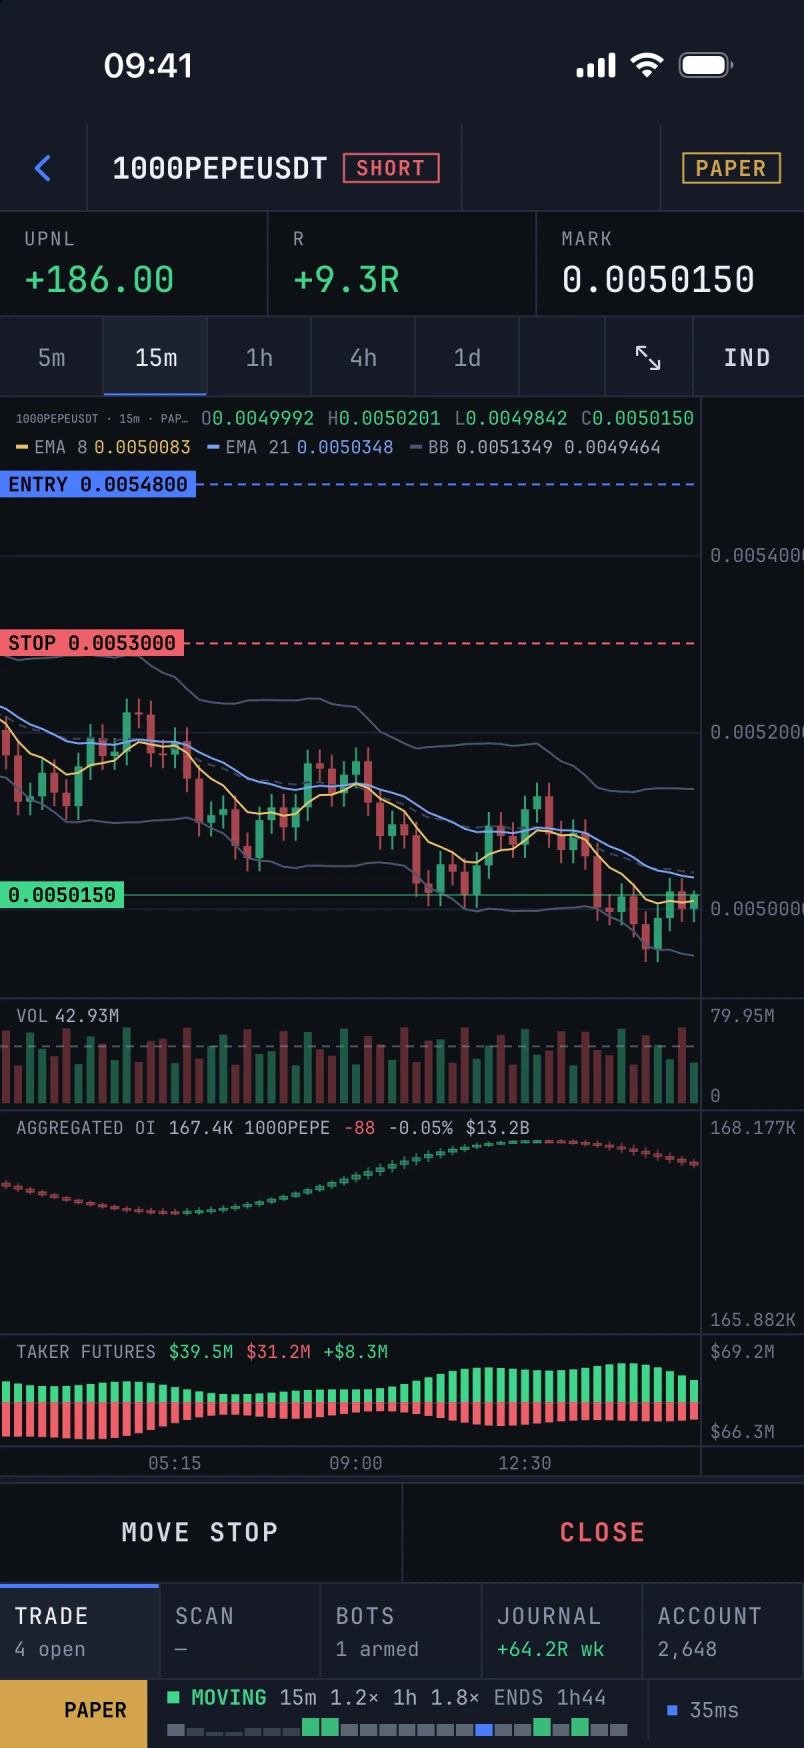
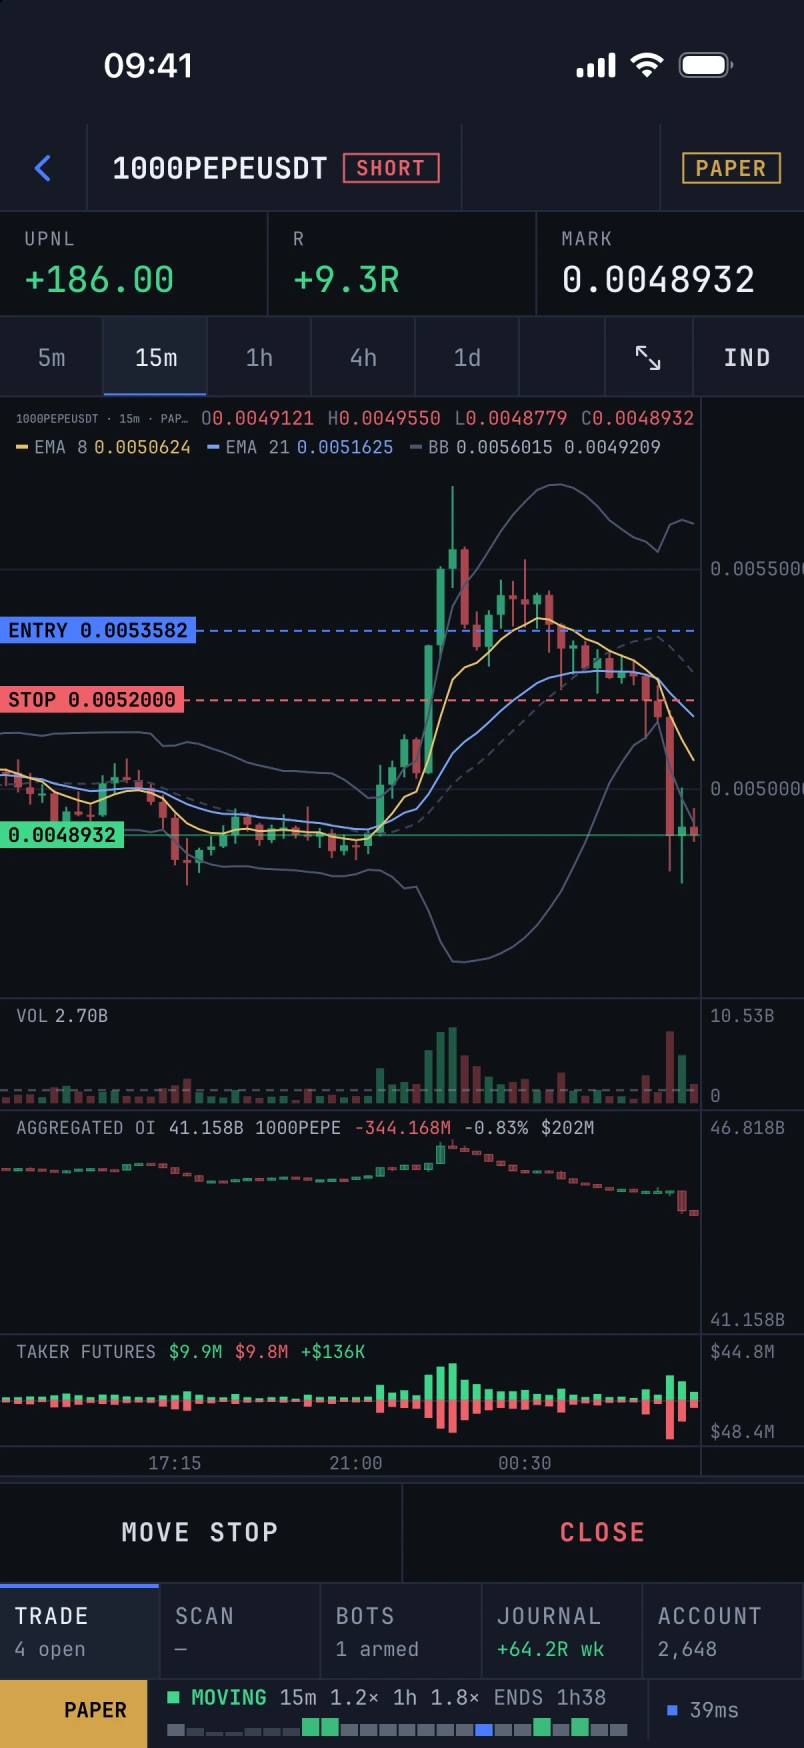
Use real PEPE market observations for iPhone chart capture

diff --git a/docs/ios-screenshots.md b/docs/ios-screenshots.md
@@ -15,14 +15,22 @@ horizontally on phones so each screenshot stays readable.
 - Seven UTC days: +72, +118, -26, +184, +236, +312, +388.
 - 18 wins, 2 losses; median +2.8R; the $26 drawdown recovers the next day.
 
-All values are illustrative. The fixture is only a localhost read server and
-rejects every write. It never uses exchange accounts or credentials.
+Account and trade values are illustrative. The chart uses unmodified historical
+market observations saved in `scripts/fixtures/pepe-market.json`: Binance
+15-minute OHLCV and Coinglass aggregated OI and futures taker volume. All three
+feeds share the same 160 timestamps, ending 29 October 2026 at 21:00 UTC.
+The PEPE paper short enters at 0.0053582, marks at the observed 0.0048932,
+and has a tightened stop at 0.00520. The $186 profit is the simulated trade
+overlay; no market prices, volumes or derivative values were scaled or synthesized.
+
+The fixture is only a localhost read server and rejects every write. It never
+uses exchange accounts or credentials or fetches network data during capture.
 
 ## Capture setup
 
 Run `node scripts/ios-demo-relay.mjs /absolute/path/to/relay-terminal` with
 Node 18 or later. The terminal checkout supplies the existing market-session
-and derivative fixture builders. Omitting the path uses a sibling
+fixture builder. Market chart data comes from the committed snapshot. Omitting the path uses a sibling
 `relay-terminal` checkout. The server listens on `127.0.0.1:8791`.
 
 Build a **temporary copy** of the terminal's `ios/` project, keeping production
